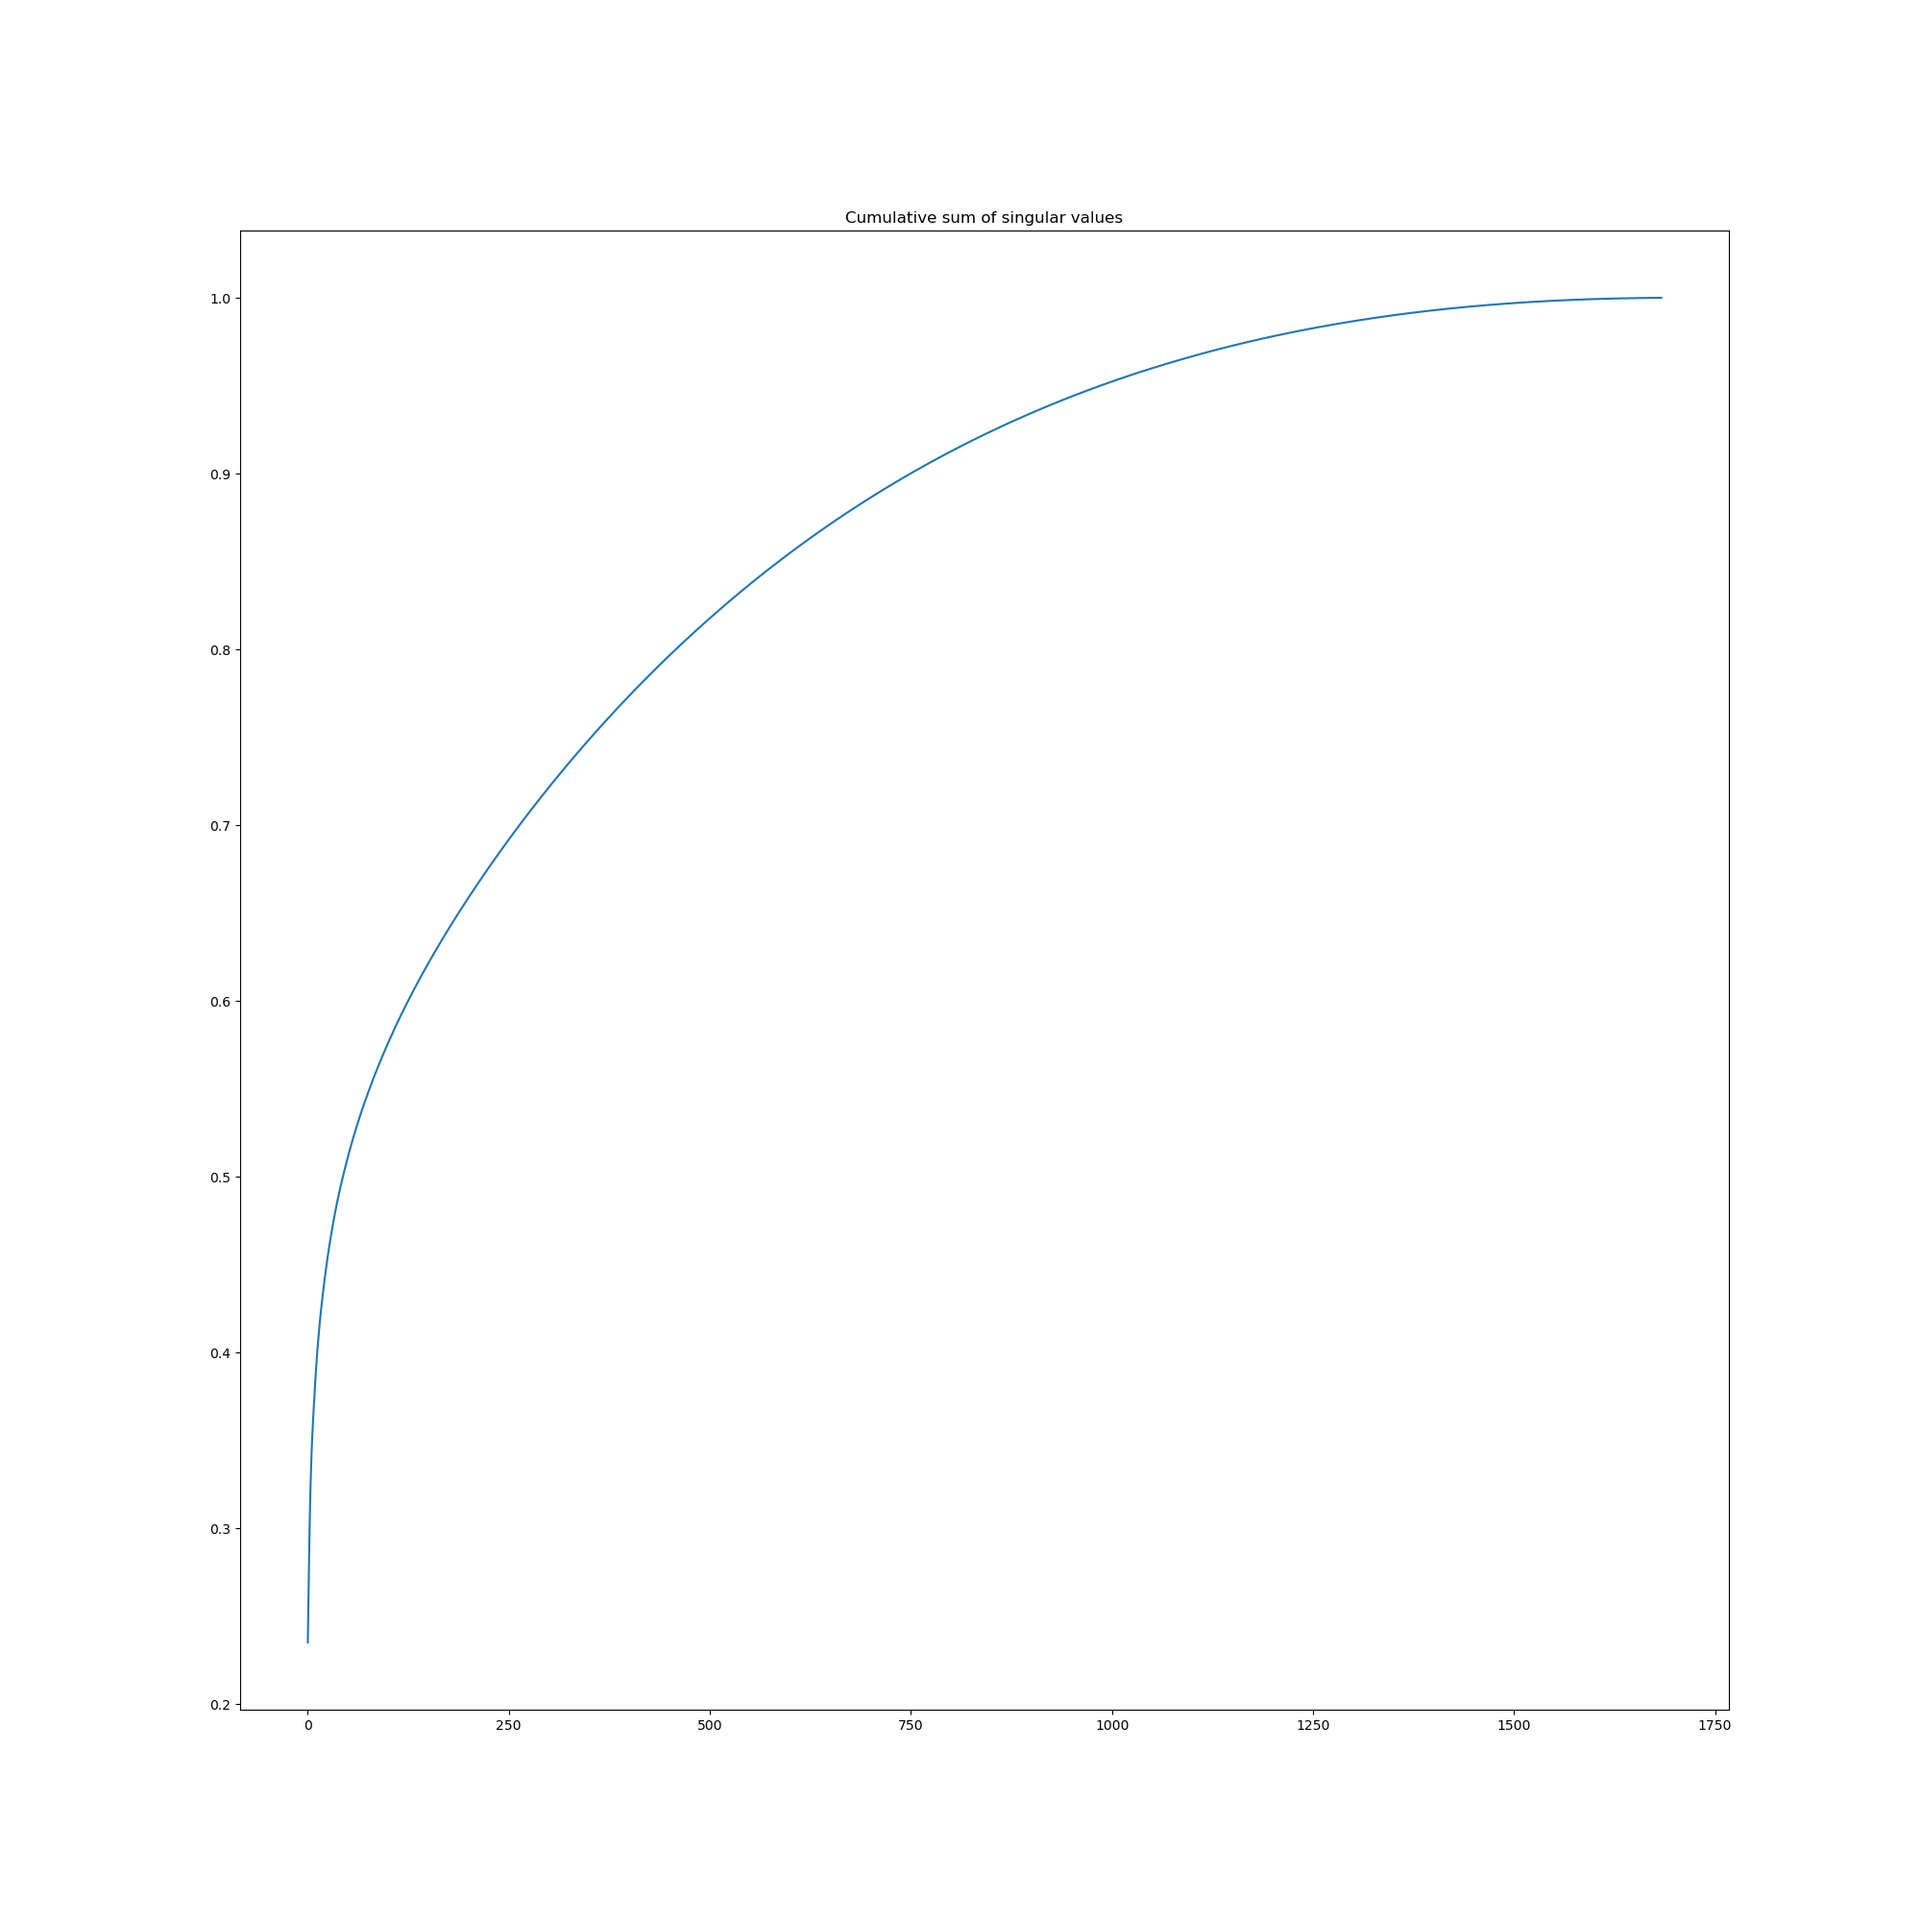
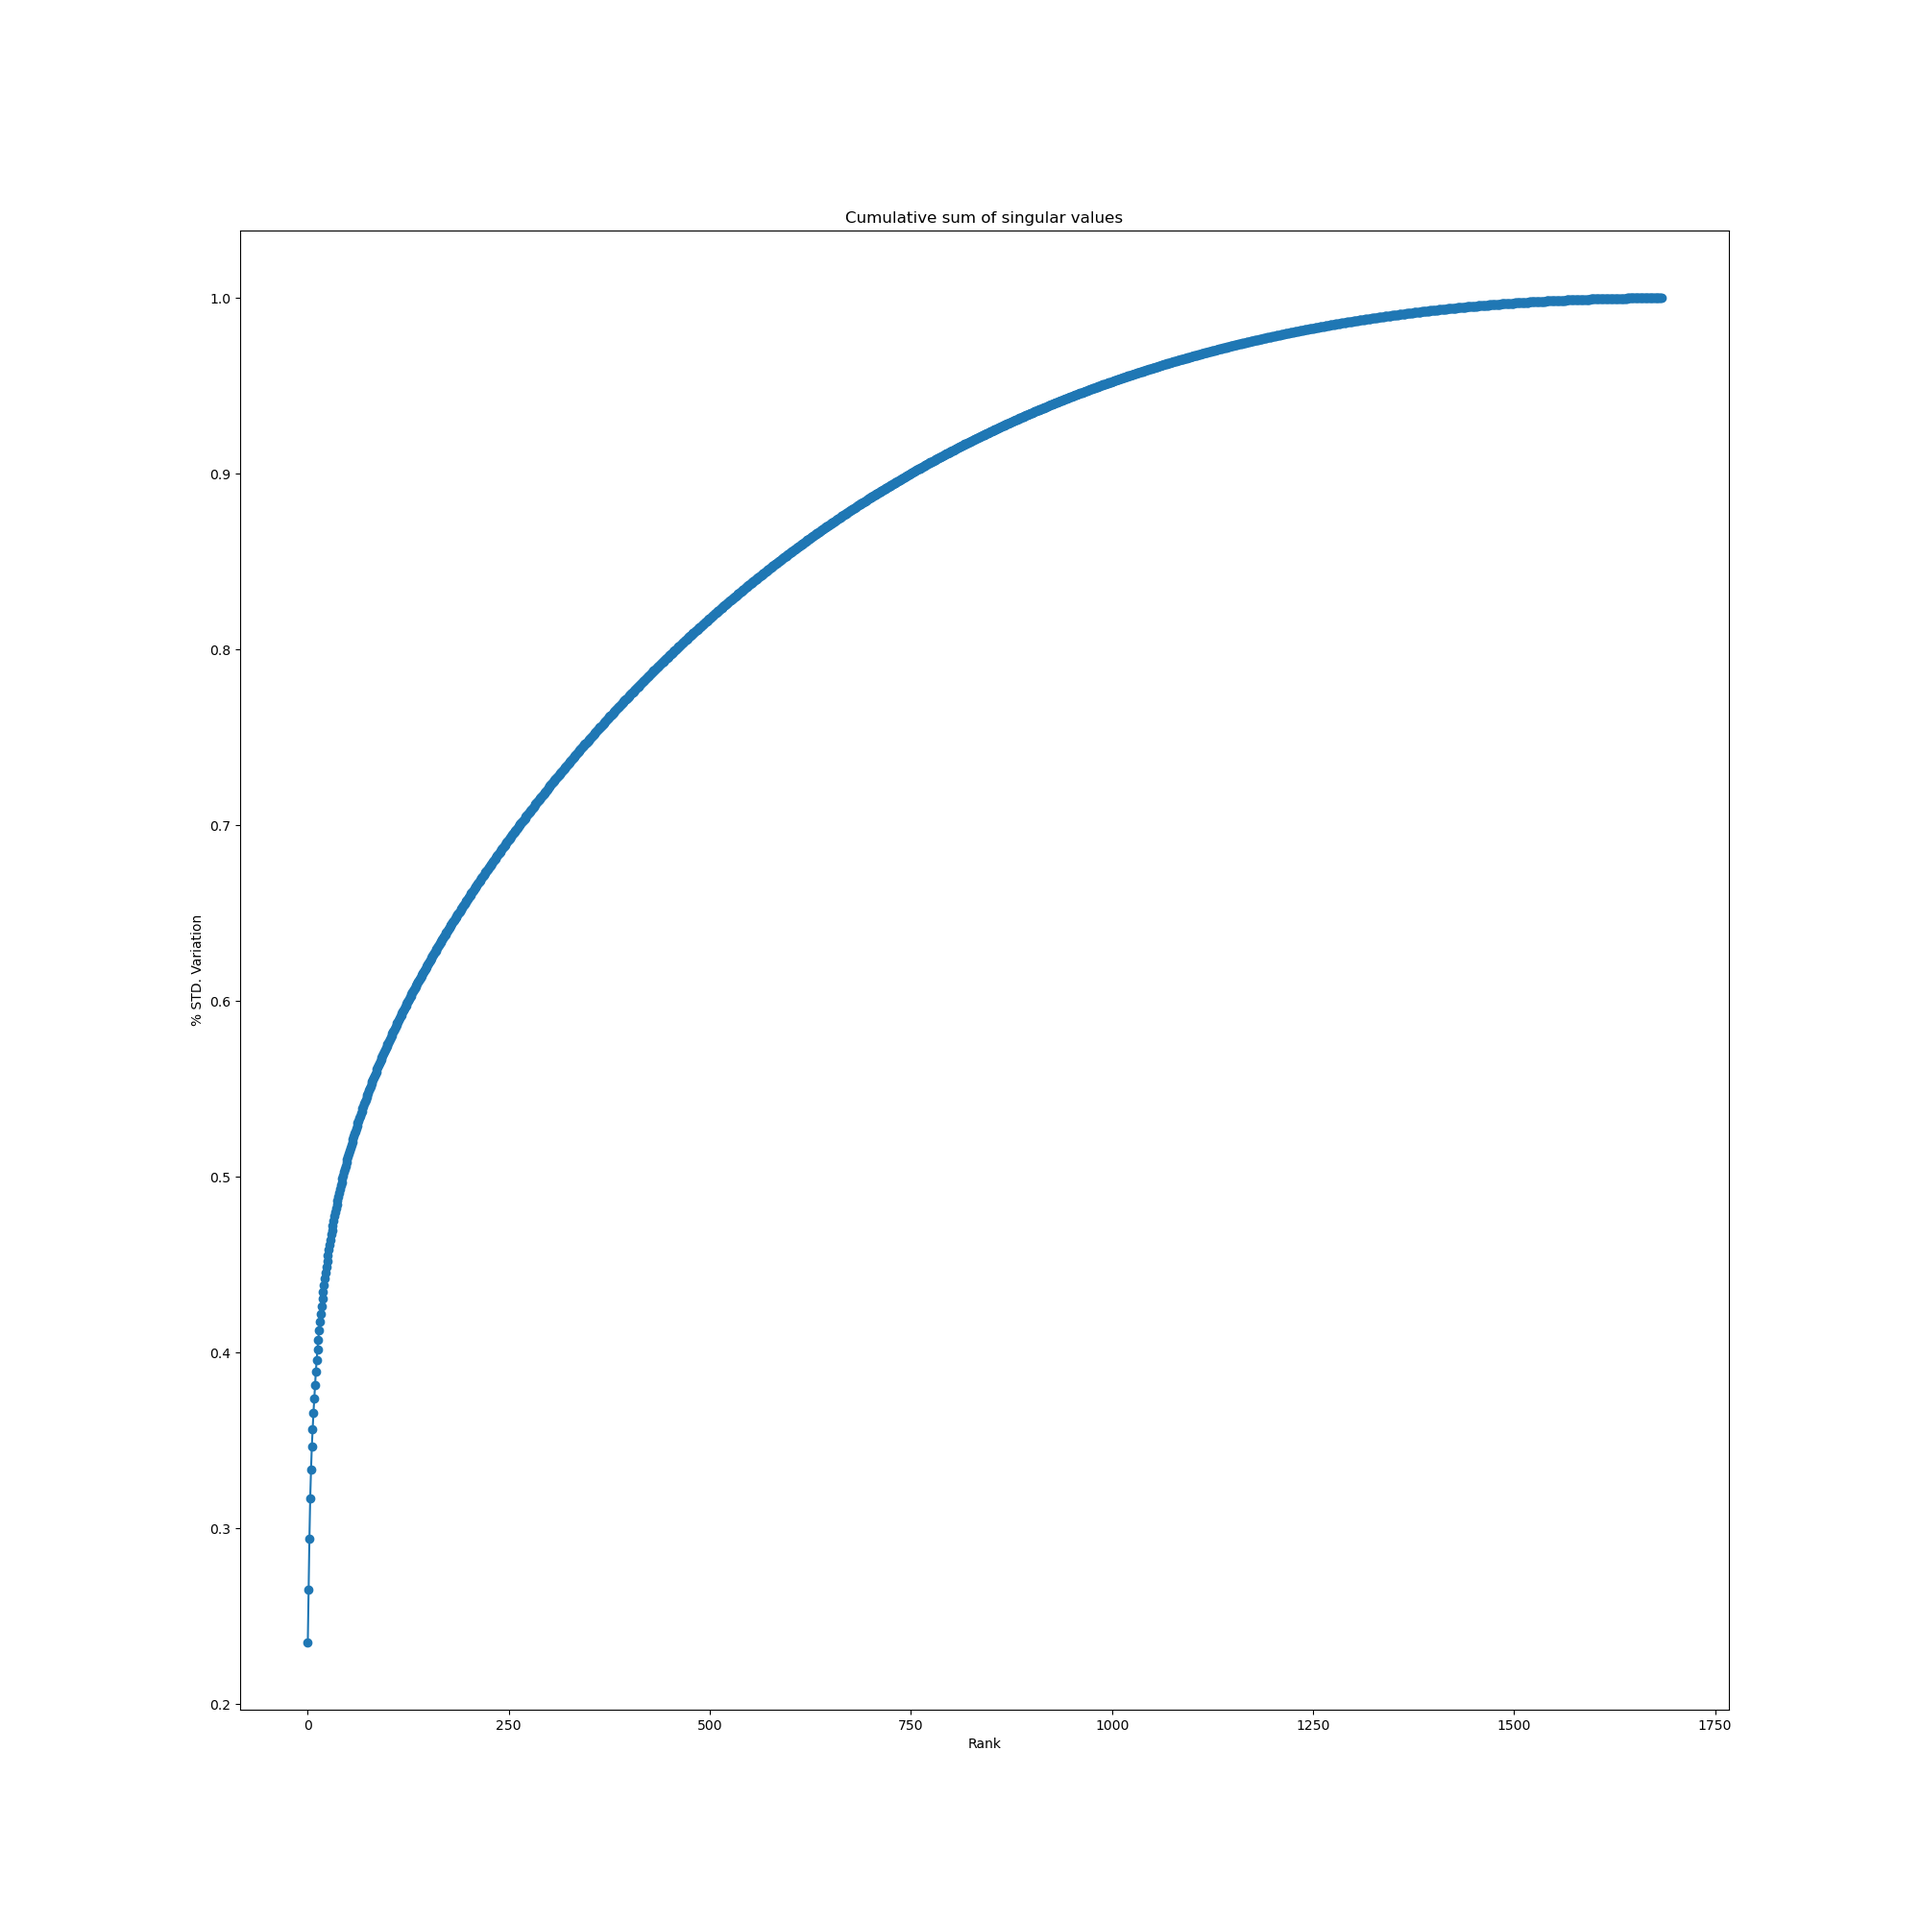
Created Python Notebook for kmeans

diff --git a/SVD/image_approximation.py b/SVD/image_approximation.py
@@ -43,7 +43,9 @@ def plot_singular_values(s: np.ndarray):
     plt.figure(figsize=(20, 20))
     plt.tight_layout()
 
-    plt.semilogy(s)
+    plt.semilogy(s, '-o', label='Singular Values')
+    plt.xlabel('Rank')
+    plt.ylabel('Energy')
     plt.title('Singular Values')
     plt.savefig('images/singular_values.png')
     plt.show()
@@ -56,7 +58,9 @@ def plot_cumulative_sum_singular(s: np.ndarray):
     plt.figure(figsize=(20, 20))
     plt.tight_layout()
 
-    plt.plot(np.cumsum(s)/np.sum(s))
+    plt.plot(np.cumsum(s)/np.sum(s), '-o', label='Cumulative Sum')
+    plt.xlabel('Rank')
+    plt.ylabel('% STD. Variation')
     plt.title('Cumulative sum of singular values')
     plt.savefig('images/cumulative_sum_singular.png')
     plt.show()

diff --git a/Kmeans/kmeans.py b/Kmeans/kmeans.py
@@ -8,7 +8,7 @@ import sys
 
 # Create a class for k-means clustering algorithm
 class KMeansClustering(object):
-    def __init__(self, X:np.ndarray, K:int, max_iter:int = 200) -> None:
+    def __init__(self, K:int, max_iter:int = 200) -> None:
         super().__init__()
         self.K = K
         self.max_iter = max_iter
@@ -108,7 +108,7 @@ if __name__ == "__main__":
     # X, _ = make_classification(n_samples=num_of_samples, n_features=num_of_features, n_redundant=0, n_informative=2, n_classes=K, n_clusters_per_class=1)
     # X, _ = make_moons(n_samples=num_of_samples, noise=0.1)
 
-    kmeans = KMeansClustering(X, K, max_iter=30)
+    kmeans = KMeansClustering(K, max_iter=30)
     y_label = kmeans.fit(X)
     
     
